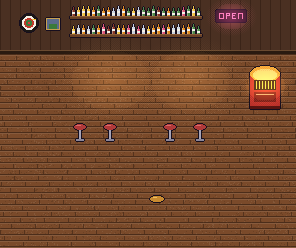
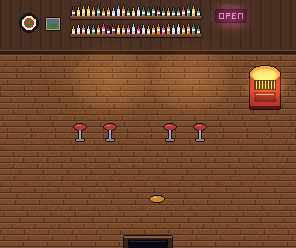
Add a HINT button and visible exits
HINT gives the next step based on progress: check the closet, then
the bartender has the key, then listen to the bridge for the spell.
The tavern gets a doorway with a glowing EXIT sign, the club door gets
an EXIT sign, and both doors can be used with the action button.

Claude-Session: https://claude.ai/code/session_014gLzSEVs7rdWDnf6n7tjPU

Changed region(s): [[0.3953, 0.9315, 0.6081, 1.0]]

diff --git a/index.html b/index.html
@@ -62,7 +62,7 @@ body.land .padlab{display:none}
 #keyico{display:none;font-family:'Press Start 2P',monospace;font-size:7px;color:#0f0d1a;background:var(--amber);padding:4px 5px;border:2px solid #000;white-space:nowrap}
 @keyframes keyin{0%{transform:scale(2)}100%{transform:scale(1)}}#keyico.new{animation:keyin .5s steps(4)}
 .hbtn{height:30px;padding:0 7px;border:2px solid #000;font-family:'Press Start 2P',monospace;font-size:7px;cursor:pointer;color:#0f0d1a}
-#listenBtn{background:var(--pink);box-shadow:inset 0 2px 0 #ffc0d4}#soundBtn{background:#2a2244;color:var(--ink)}
+#listenBtn{background:var(--pink);box-shadow:inset 0 2px 0 #ffc0d4}#hintBtn{background:var(--amber);box-shadow:inset 0 2px 0 #fff0b0}#soundBtn{background:#2a2244;color:var(--ink)}
 canvas{display:block;image-rendering:pixelated;image-rendering:crisp-edges}
 .ov{position:absolute;left:0;right:0;bottom:0;top:var(--hudH,44px);display:none}
 .box{background:var(--panel);border:4px solid var(--ink);box-shadow:0 0 0 4px #000,6px 6px 0 4px #000}
@@ -181,6 +181,7 @@ body.phone #listen,body.phone #help{z-index:16}
 <span id="keyico" aria-label="You have the closet key"><svg width="16" height="8" viewBox="0 0 8 4" shape-rendering="crispEdges" aria-hidden="true" style="vertical-align:middle;margin-right:4px"><rect x="0" y="0" width="3" height="3" fill="#0f0d1a"/><rect x="1" y="1" width="1" height="1" fill="#ffc24a"/><rect x="3" y="1" width="5" height="1" fill="#0f0d1a"/><rect x="5" y="2" width="1" height="2" fill="#0f0d1a"/><rect x="7" y="2" width="1" height="2" fill="#0f0d1a"/></svg>CLOSET KEY</span>
 <span id="loc">HOME</span>
 <button class="hbtn" id="soundBtn" aria-label="Toggle sound">SOUND ON</button>
+<button class="hbtn" id="hintBtn">HINT</button>
 <button class="hbtn" id="listenBtn">LISTEN</button>
 </div>
 <canvas id="cv" width="296" height="248" aria-label="Game screen"></canvas>
@@ -407,8 +408,9 @@ const SC = {
       { r: [108, 152, 40, 10], l: 'TV', f: () => say(['Static. Same as your head.']) }] },
   tavern: { img: 'tavern', name: 'TAVERN', walk: [[0, 56, 296, 192]],
     block: [[58, 54, 176, 62], [74, 130, 12, 8], [104, 130, 12, 8], [164, 130, 12, 8], [194, 130, 12, 8], [250, 66, 30, 44], [20, 192, 34, 30], [224, 192, 34, 30], [52, 220, 16, 8]],
-    exit: { r: [126, 244, 44, 4], to: 'map' },
+    exit: { r: [122, 244, 52, 4], to: 'map' },
     acts: [
+      { r: [118, 226, 60, 18], l: 'LEAVE', f: () => leave() },
       { r: [96, 116, 64, 14], l: 'BARTENDER', f: () => tavernBartender() },
       { r: [242, 108, 44, 14], l: 'JUKEBOX', f: () => jukebox() },
       { r: [14, 186, 46, 50], l: 'REGULAR', f: () => say([{ who: 'REGULAR', t: "Weren't you at the club last night? You handed their bartender something. Made a whole speech about it." }, L('Rumors in the back rows.')]) },
@@ -417,6 +419,7 @@ const SC = {
     block: [[4, 176, 104, 72], [250, 232, 16, 8], [34, 145, 12, 6], [64, 135, 12, 6], [98, 147, 12, 6], [174, 141, 12, 6], [208, 151, 12, 6], [242, 137, 12, 6], [228, 181, 12, 6]],
     exit: { r: [284, 196, 12, 40], to: 'map' },
     acts: [
+      { r: [262, 194, 34, 46], l: 'LEAVE', f: () => leave() },
       { r: [100, 98, 100, 14], l: 'THE BAND', f: () => band() },
       { r: [106, 200, 22, 40], l: 'BARTENDER', f: () => clubBartender() },
       { r: [170, 136, 26, 20], l: 'MOSH', f: () => mosh() }] },
@@ -512,6 +515,7 @@ function bed() {
   say(['You lie down for a minute. Nothing gets solved, but your head clears a little.'], () => { st.buzz = Math.max(0, st.buzz - 1); hud(); });
 }
 function closet() {
+  st.closetTried = true;
   if (!st.key) return say(['The closet is padlocked.', 'Where did you leave that key?']);
   if (st.buzz > 2) return say(["You have the key, but you can't get it in the lock. Your hands won't stop shaking.", '(Your Buzz is ' + st.buzz + '. It has to be 2 or less. Every trip to another place lowers it by 1, so take a walk around the block. Sleeping on the couch also works, and you keep the key.)']);
   say(['The padlock clicks open. On the shelf: a cardboard box. Your handwriting on the side.', L('Cut in the dark. The ones we let drown and the others in the ark.')], () => openSpell());
@@ -718,7 +722,7 @@ function npcAnim(n, i) {
 }
 const GLYPH = { B: ['XX.', 'X.X', 'XX.', 'X.X', 'XX.'], A: ['.X.', 'X.X', 'XXX', 'X.X', 'X.X'], R: ['XX.', 'X.X', 'XX.', 'X.X', 'X.X'], L: ['X..', 'X..', 'X..', 'X..', 'XXX'],
   I: ['XXX', '.X.', '.X.', '.X.', 'XXX'], V: ['X.X', 'X.X', 'X.X', 'X.X', '.X.'], E: ['XXX', 'X..', 'XX.', 'X..', 'XXX'], M: ['X.X', 'XXX', 'XXX', 'X.X', 'X.X'],
-  U: ['X.X', 'X.X', 'X.X', 'X.X', 'XXX'], S: ['.XX', 'X..', '.X.', '..X', 'XX.'], C: ['.XX', 'X..', 'X..', 'X..', '.XX'], ' ': ['..', '..', '..', '..', '..'] };
+  U: ['X.X', 'X.X', 'X.X', 'X.X', 'XXX'], X: ['X.X', 'X.X', '.X.', 'X.X', 'X.X'], T: ['XXX', '.X.', '.X.', '.X.', '.X.'], S: ['.XX', 'X..', '.X.', '..X', 'XX.'], C: ['.XX', 'X..', 'X..', 'X..', '.XX'], ' ': ['..', '..', '..', '..', '..'] };
 const textW = (s, k) => [...s].reduce((w, ch) => w + (GLYPH[ch][0].length + 1) * k, -k);
 function pxText(s, x, y, k, col, skip) {
   let cx = x; [...s].forEach((ch, n) => { const g = GLYPH[ch];
@@ -758,6 +762,12 @@ function drawMapFx() {
   ctx.fillStyle = '#a89ac0'; HEART.slice(8).forEach((row, j) => [...row].forEach((c, i) => { const jj = j + 8; if (c === 'X' && i !== CRACK[jj]) { const left = i < CRACK[jj]; ctx.fillRect(cx + i * 2 + (left ? -2 : 2), cy + jj * 2 + (left ? 0 : 2) + 1, 2, 1); } }));
   ctx.fillStyle = '#7ab0e8';
   for (let k = 0; k < 6; k++) { const ry = (t * 30 + k * 11) % 26; ctx.fillRect(cx + 4 + k * 4, cy + 26 + ry, 1, 2); }
+}
+function exitSign(x, y) {
+  const on = Math.sin(st.t * 3) > -.6;
+  ctx.fillStyle = OUT; ctx.fillRect(x - 1, y - 1, 21, 11); ctx.fillStyle = '#0c1a10'; ctx.fillRect(x, y, 19, 9);
+  if (on) { ctx.save(); ctx.globalCompositeOperation = 'lighter'; ctx.fillStyle = 'rgba(80,255,130,.16)'; ctx.fillRect(x - 4, y - 3, 27, 15); ctx.restore(); }
+  pxText('EXIT', x + 2, y + 2, 1, on ? '#6aff8a' : '#2a6a3a');
 }
 let flowT = 0;
 function guitar() {
@@ -832,6 +842,8 @@ function draw() {
   const scene = () => {
     ctx.drawImage(st.scene === 'exhouse' && st.porchOff ? IMG.exhouse_off : IMG[SC[st.scene].img], 0, 0);
     if (st.scene === 'map') drawMapFx();
+    if (st.scene === 'tavern') exitSign(140, 225);
+    if (st.scene === 'club') exitSign(275, 185);
     const A = ATLAS[st.scene], ents = [];
     if (A) {
       A.npcs.forEach((n, i) => ents.push({ y: n.y, d: () => { const a = npcAnim(n, i);
@@ -910,7 +922,19 @@ function openListen() {
     : '<div class="plat" aria-disabled="true">' + l[0] + '<span>Link coming soon</span></div>').join('');
   openOv('listen'); $('lClose').focus();
 }
-$('listenBtn').onclick = e => { e.currentTarget.blur(); openListen(); }; $('tListen').onclick = openListen; $('lClose').onclick = () => closeOv('listen');
+$('listenBtn').onclick = e => { e.currentTarget.blur(); openListen(); };
+$('hintBtn').onclick = e => { e.currentTarget.blur(); hint(); };
+function hint() {
+  let msg, toSong = false;
+  if (st.spellSeen) { msg = 'You must listen to the bridge to hear the spell.'; toSong = true; }
+  else if (st.key) msg = st.buzz > 2 ? 'Check the closet. (Steady hands first: get your Buzz to 2 or less.)' : 'Check the closet.';
+  else if (st.closetTried) msg = 'The bartender has the key.';
+  else msg = 'Check the closet.';
+  sfx('click');
+  if ($('spell').style.display === 'flex') { $('spellMsg').textContent = 'HINT: ' + msg; $('spellMsg').style.color = 'var(--amber)'; $('sListen').style.display = 'inline-block'; return; }
+  if (st.mode !== 'play' || st.lock || $('dlg').style.display === 'block') return;
+  say([toSong ? { who: 'HINT', t: msg, ch: [['GOT IT', () => {}], ['LISTEN TO THE BRIDGE', () => openListen(), 'pink']] } : { who: 'HINT', t: msg }]);
+} $('tListen').onclick = openListen; $('lClose').onclick = () => closeOv('listen');
 $('howBtn').onclick = () => { openOv('help'); $('helpClose').focus(); }; $('helpClose').onclick = () => closeOv('help');
 
 // spell
@@ -919,7 +943,7 @@ function lev(a, b) { const d = []; for (let i = 0; i <= a.length; i++) { d[i] = 
   for (let i = 1; i <= a.length; i++) for (let j = 1; j <= b.length; j++) d[i][j] = Math.min(d[i - 1][j] + 1, d[i][j - 1] + 1, d[i - 1][j - 1] + (a[i - 1] === b[j - 1] ? 0 : 1));
   return d[a.length][b.length]; }
 let tries = 0;
-function openSpell() { st.lock = true; tries = 0; $('spellIn').value = ''; $('spellMsg').textContent = 'Type the words. Press CAST or Enter.'; $('spellMsg').style.color = '';
+function openSpell() { st.spellSeen = true; st.lock = true; tries = 0; $('spellIn').value = ''; $('spellMsg').textContent = 'Type the words. Press CAST or Enter.'; $('spellMsg').style.color = '';
   $('sListen').style.display = 'inline-block'; $('sListen').textContent = 'NEED THE WORDS? LISTEN'; openOv('spell'); setTimeout(() => $('spellIn').focus(), 50); }
 function cast() {
   const v = norm($('spellIn').value);
@@ -1086,7 +1110,7 @@ $('rndBtn').onclick = () => { const r = n => Math.floor(Math.random() * n); Obje
 $('newBtn').onclick = () => { startMusic(); closeOv('title'); renderCreator(); openOv('creator'); };
 $('startBtn').onclick = () => {
   st.look = lookFrom(); closeOv('creator');
-  Object.assign(st, { mode: 'intro', courage: 1, buzz: 3, key: false, watched: false, porchOff: false, knocks: 0, played: 0, drinks: 0, cups: {}, cupN: 0 }); hud();
+  Object.assign(st, { mode: 'intro', courage: 1, buzz: 3, key: false, watched: false, porchOff: false, knocks: 0, played: 0, drinks: 0, cups: {}, cupN: 0, closetTried: false, spellSeen: false }); hud();
   go('map', MAPSPAWN.home[0], MAPSPAWN.home[1]);
   const f = $('fade'); f.style.transition = 'none'; f.style.opacity = 1; f.innerHTML = '<span>"Drunk and on my way home,\ncall you just to say I\'m coming over baby."</span><span class="fattr">' + ATTR + '</span>'; st.lock = true;
   setTimeout(() => { f.style.transition = ''; startDrive('home', false, true); f.style.opacity = 0; }, 3600);
@@ -1144,8 +1168,8 @@ function camTo(target, key, sh) {
 function fit() {
   const b = document.body, phone = b.classList.contains('phone'), landPhone = phone && innerWidth > innerHeight;
   b.classList.toggle('land', landPhone);
-  if (landPhone) { $('padL').prepend($('hud')); $('padRtop').append($('listenBtn'), $('soundBtn')); }
-  else { $('screen').prepend($('hud')); $('hud').append($('soundBtn'), $('listenBtn')); }
+  if (landPhone) { $('padL').prepend($('hud')); $('padRtop').append($('listenBtn'), $('hintBtn'), $('soundBtn')); }
+  else { $('screen').prepend($('hud')); $('hud').append($('soundBtn'), $('hintBtn'), $('listenBtn')); }
   const HUD = landPhone ? 0 : 44, B = 8, ap = getComputedStyle($('app'));
   const padX = parseFloat(ap.paddingLeft) + parseFloat(ap.paddingRight), padY = parseFloat(ap.paddingTop) + parseFloat(ap.paddingBottom);
   let s, vh = H;
